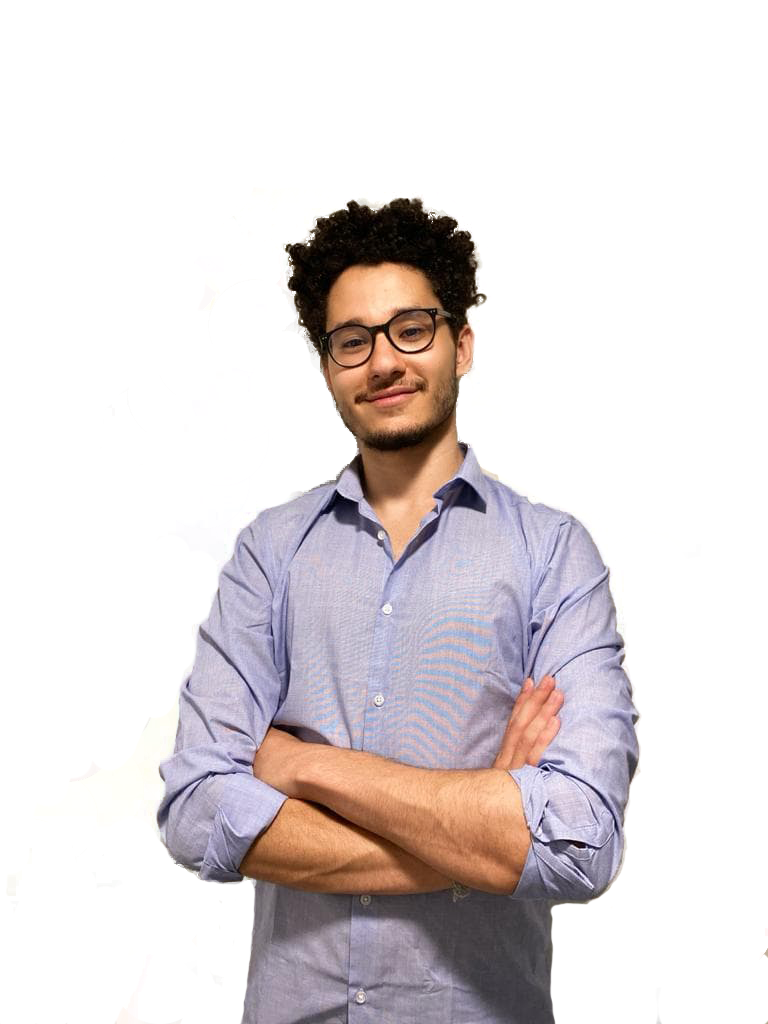
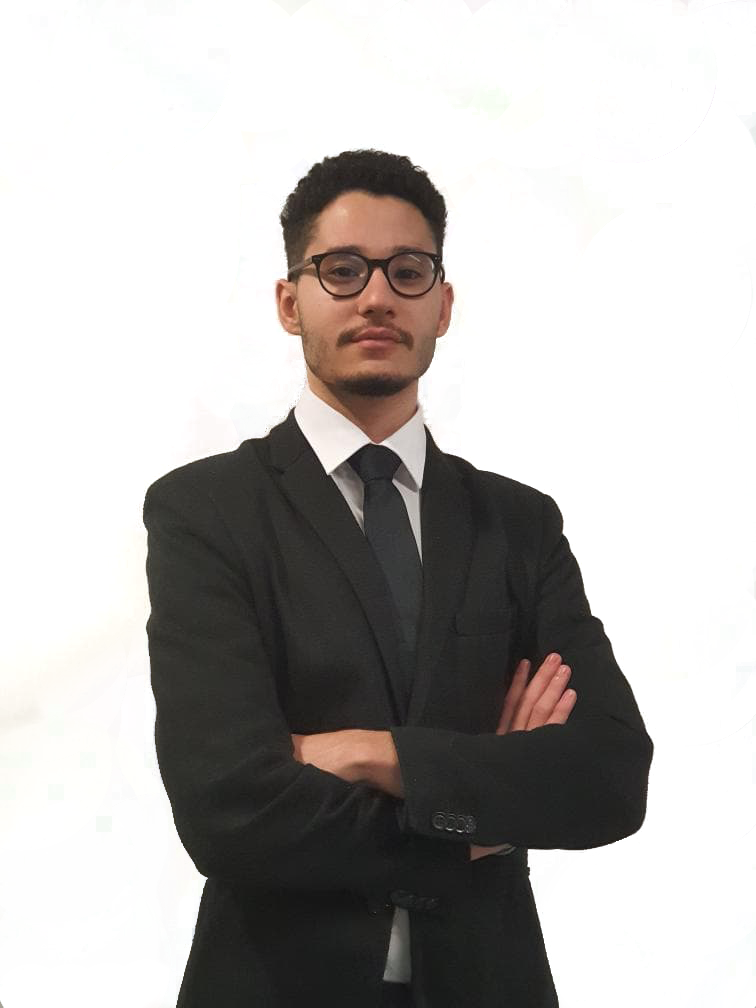
Update picture + cv

diff --git a/index.html b/index.html
@@ -122,8 +122,8 @@
                     <div class="col-md-6 col-md-offset-3">
                         <h2>About</h2>
                         <img src="assets/img/lines.svg" class="img-lines" alt="lines">
-                        <p>Hello ! I’m Saifeddine El Madani. I’m 23 years old and in my last year of engineering at the <a href=" http://www.imt-lille-douai.fr/ "> Institut Mines Telecom of Lille </a>. I'm looking for my end-of-studies internship as a data scientist consultant in finance for a period of 6 months from the 01/02/2021.</p>
-                        <a href="https://www.fichier-pdf.fr/2020/11/10/cv-saifeddine-el-madani/" class="btn btn-fill" target="_blank" download>Download my cv</a>
+                        <p>Hello ! I’m Saifeddine El Madani. I’m 23 years old in my last year of engineering at the <a href=" http://www.imt-lille-douai.fr/ "> Institut Mines Telecom of Lille </a>. I'm looking for my end-of-studies internship as a data scientist in consuling or audit. </p>
+                        <a href="https://www.fichier-pdf.fr/2020/12/28/cv-saifeddine-el-madani/" class="btn btn-fill" target="_blank" download>Download my cv</a>
                     </div>
                 </div>
             </div>
